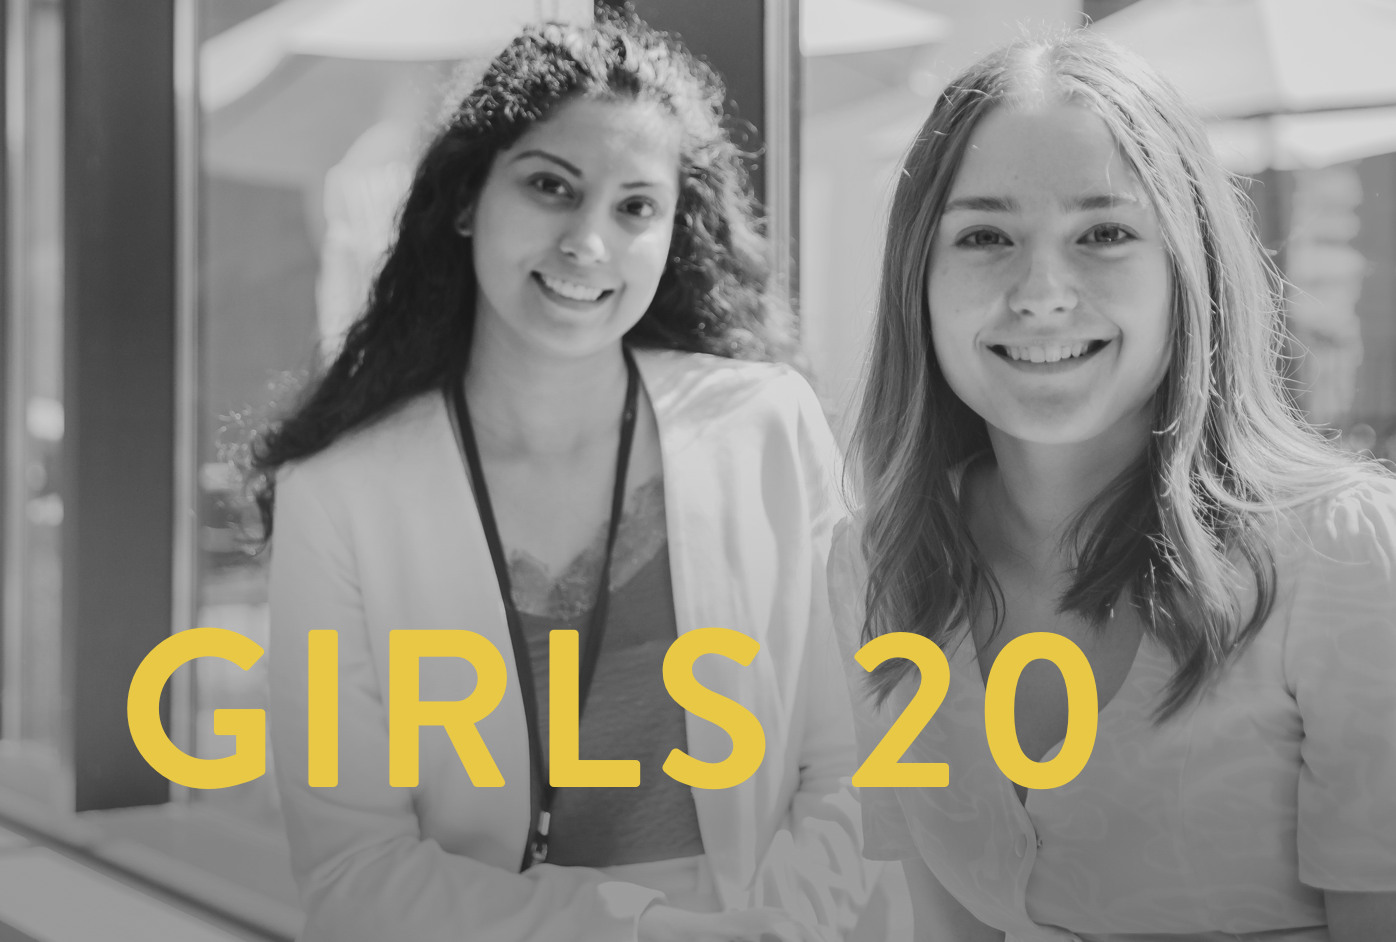
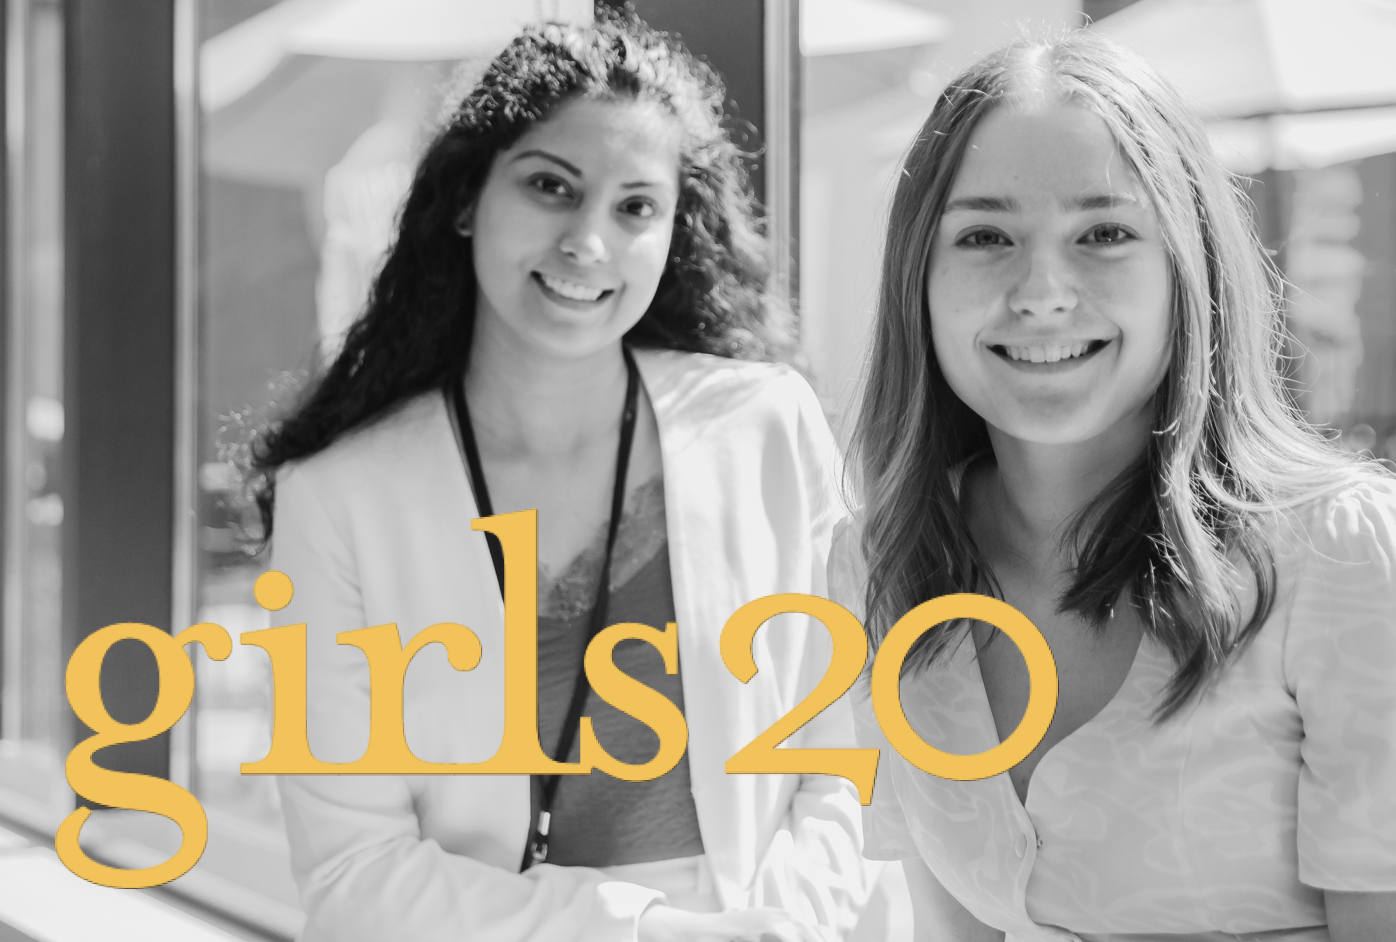
2020 copy updates

diff --git a/src/pages/about.js b/src/pages/about.js
@@ -44,24 +44,24 @@ const IndexPage = (props) => (
           </div>
         </div>
         <div className="about-wrap">
-          <h2>Hi, I’m Janel &mdash; a UX/UI Designer</h2>
+          <h2>Hello 👋🏼 I’m Janel &mdash; a UX/UI Designer</h2>
           <div className="text">
-            <p>I aim to create design people feel connected to, I specialize in human-centred design, branding, website design, editorial design (books &amp; magazines), and type-led graphic design. I follow emotional design principles to put users at ease and understand their needs, my values are “Love More” and “Lead with Simplicity” these provide a motivational foundation for all the work I produce.</p>
-            <p>I’ve been designing since 2016, I started creating logos and websites for people in my network and after designing for a year, I became interested in coding, I completed Hacker You’s full-time front-end boot camp and then their UX course. After that, I got some great opportunities to work under some amazing designers where I learned so much about simplicity, elegance, and telling a story through design. Now, my clients and I work as a team to deliver compelling brands & products through collaboration and storytelling.</p>
-            <p>I love connecting with other designers&mdash;I find that speaking with others in my field can be enlightening. I'm always looking to collaborate, specifically on brand and product-related work. My most positive past relationships have been born out of honest collaboration. My ideal client has a love for what they are doing—and is excited to create a brand that inspires.</p>
-            <p>When I'm not designing, I'm usually with friends and family, going to art galleries, restaurants and taking my dog Marvin for walks at Trinity Bellwoods. <br></br>Send me an email if you're interested in working together. If you're in Toronto, let's get coffee <a href="mailto:hello@janellucia.com">hello@janellucia.com</a>.</p>
+            <p>I aim to create design people feel connected to, I specialize in human-centred design, branding, website design, editorial design (books & magazines), and type-led graphic design. I follow emotional design principles to put users at ease and understand their needs, my values are “Love More” and “Lead with Simplicity” these provide the foundation for all the work I produce.</p>
+            <p>I’ve been designing since 2016, I started by creating logos and websites for people in my network and when I was ready to take it to the next level, and I completed Juno’s (formerly Hacker You) full-time front-end boot camp &amp; UX course. Along the way I’ve had some great opportunities to work under some very smart/talented designers where I learned about simplicity, elegance, and how to effectively tell a story through design. I wouldn't be where I am today without the support of my community filled with both designers and non-designers.</p>
+            <p>I love connecting with people who are passionate about what they do—I find hearing their stories to be enlightening. I’m always looking to collaborate, specifically on brand and product-related work, my most positive past relationships have been born out of honest collaboration. My ideal client has a love for what they are doing—and is excited to create a brand that inspires.</p>
+            <p>When I'm not pushing the boundaries of how big an Adobe file can be, I like to spend time with people I love, go to art galleries, restaurants, binge my fave series (right now it's The Politician), and take my dog Marvin for walks. <br></br>Send me an email if you're interested in working together. If you're in Toronto, let's grab a coffee (or tea) <a href="mailto:hello@janellucia.com">hello@janellucia.com</a></p>
           </div>
         </div>
         <div className="resume">
           <div className="each-section experience">
             <h3>Experience —</h3>
             <div>
-              <p><strong>Product Designer @ the good ones academy</strong></p>
-              <p>Jan 2019 - Present</p>
-            </div>
-            <div>
               <p><strong>UX Designer &amp; Developer @ Janel Lucia</strong></p>
               <p>Feb 2016 - Present</p>
+            </div>
+            <div>
+              <p><strong>Product Designer @ the good ones academy</strong></p>
+              <p>Jan 2019 - June 2019</p>
             </div>
             <div>
               <p><strong>UX Designer &amp; Developer @ ITRG</strong></p>
@@ -93,11 +93,11 @@ const IndexPage = (props) => (
             <h3>Education —</h3>
             <div>
               <p><strong>Intro &amp; Advanced UX Design</strong></p>
-              <p>Hacker You – 2018</p>
+              <p>Juno – 2018</p>
             </div>
             <div>
               <p><strong>Front End Development Bootcamp</strong></p>
-              <p>Hacker You – 2016</p>
+              <p>Juno – 2016</p>
             </div>
             <div>
               <p><strong>BA Business Administration</strong></p>

diff --git a/src/pages/index.js b/src/pages/index.js
@@ -78,27 +78,27 @@ const IndexPage = (props) => (
       </section>
       <section className="process">
         <div className="step-title">
-          <p>My work is rooted in research, collaboration and feedback. I stay curious, use history as my superpower, and obsess over small details. Here's an example of my work flow:</p>
+          <p>My work is rooted in research, collaboration and feedback. I stay curious, obsess over small details, and think communication is important. Here's an example of my typical work flow:</p>
         </div>
         <div className="step step-1">
-          <h3>Define the challenges —</h3>
-          <p>Before starting any project I like to gain an empathetic understanding of the goals, values, and intentions for the project by working with stakeholders to understand their experiences, pains and needs.</p>
+          <h3>Discovery&mdash;</h3>
+          <p>First phase for me is defining the project, I want to get a deep understanding of the goals, values, and intentions of the stakeholders. We want a clear definition of what we know, what we don't know, and what we need to know.</p>
         </div>
         <div className="step step-2">
-          <h3>Research &amp; Validate —</h3>
-          <p>Then, I dive deeper with quantitative and qualitative research; user interviews, surveys, industry research, and competitive analysis and use that info to build personas and journey maps.</p>
+          <h3>Research&mdash;</h3>
+          <p>Second step is research &mdash; user interviews, surveys, industry research, and competitive analysis. We want to learn about who the users are, what their pains are, how the industry functions, and what makes this product unique.</p>
         </div>
         <div className="step step-3">
-          <h3>Sketch, Vote &amp; Storyboard —</h3>
-          <p>Design/sketch multiple solutions, facilitate a critique session with stakeholders and use dot voting to select the best solution. Then, take the winning idea and turn it into a user storyboard.</p>
+          <h3>Sketch &amp; Storyboard&mdash;</h3>
+          <p>During the third phase we sketch out competing solutions, facilitate a group critique session and vote for the best solution. We expand on the winning idea with fairly detailed wireframes while deciding on key factors together.</p>
         </div>
         <div className="step step-5">
-          <h3>Prototype &amp; Test —</h3>
-          <p>With the winning design, create an active prototype, showcase product features and animations for user testing. This allows us to observe user behaviour for better functionality and usability.</p>
+          <h3>Prototype&mdash;</h3>
+          <p>When we create the prototype, we want to showcase main product features for testing, start with the team, iron out any kinks then take it to the users, observe their behaviour, notice their ease (or lack thereof) when navigating the product.</p>
         </div>
         <div className="step step-6">
-          <h3>Evaluate &amp; Iterate —</h3>
-          <p>Once the test phase has been completed and insights collected, necessary iterations can be implemented (and re-tested) and the next phase of the design life cycle can begin.</p>
+          <h3>Evaluate &amp; Iterate&mdash;</h3>
+          <p>Once the test phase is complete and insights collected, necessary iterations can be implemented (and re-tested) and the next phase of the design life cycle begins (:</p>
         </div>
       </section>
 
@@ -152,7 +152,7 @@ export const pageQuery = graphql`
         }
       }
     }
-    imageSeven: file(relativePath: { eq: "home/girls-home.png" }) {
+    imageSeven: file(relativePath: { eq: "home/girls20-home.png" }) {
       childImageSharp {
         fluid(maxWidth: 1000) {
           ...GatsbyImageSharpFluid_noBase64

diff --git a/src/styles/_about.scss b/src/styles/_about.scss
@@ -161,6 +161,7 @@
 
             a {
                 text-decoration: underline;
+                padding: 0;
             }
 
             p:first-of-type {
